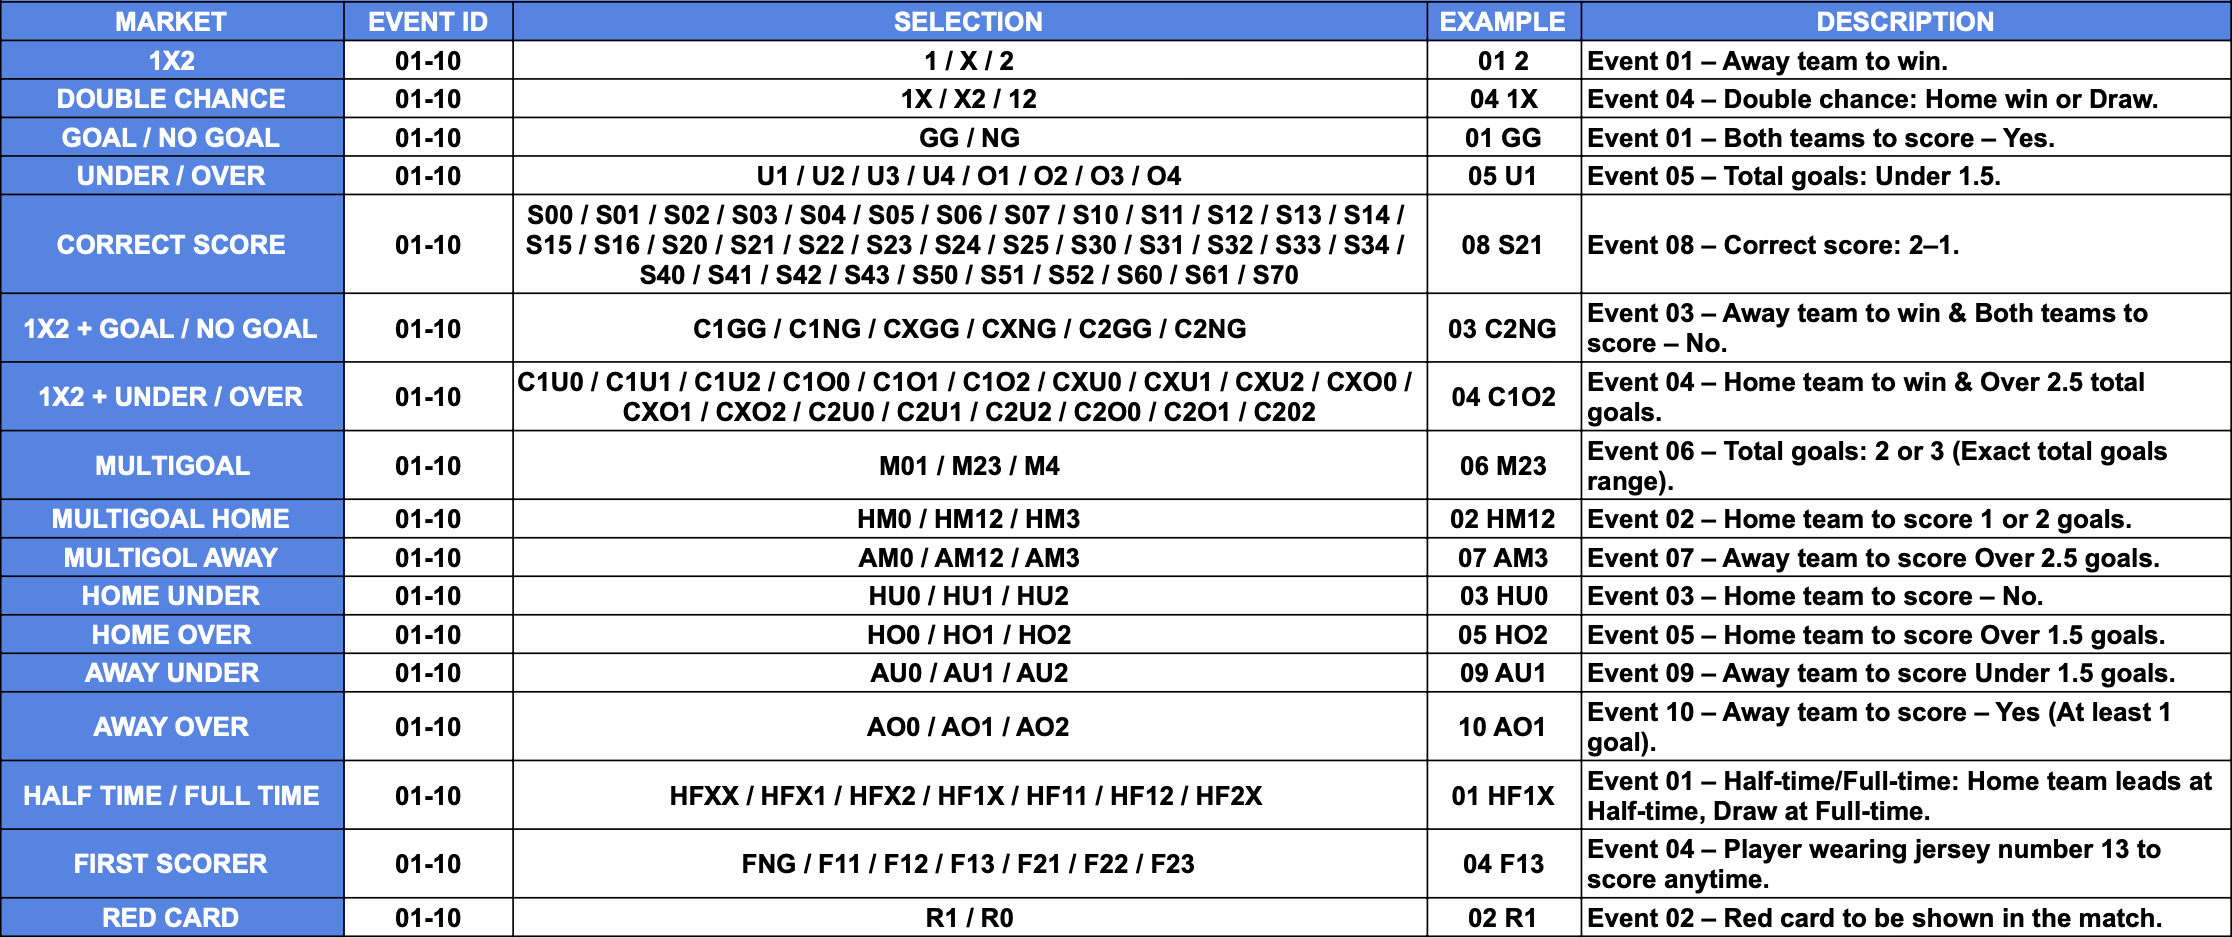
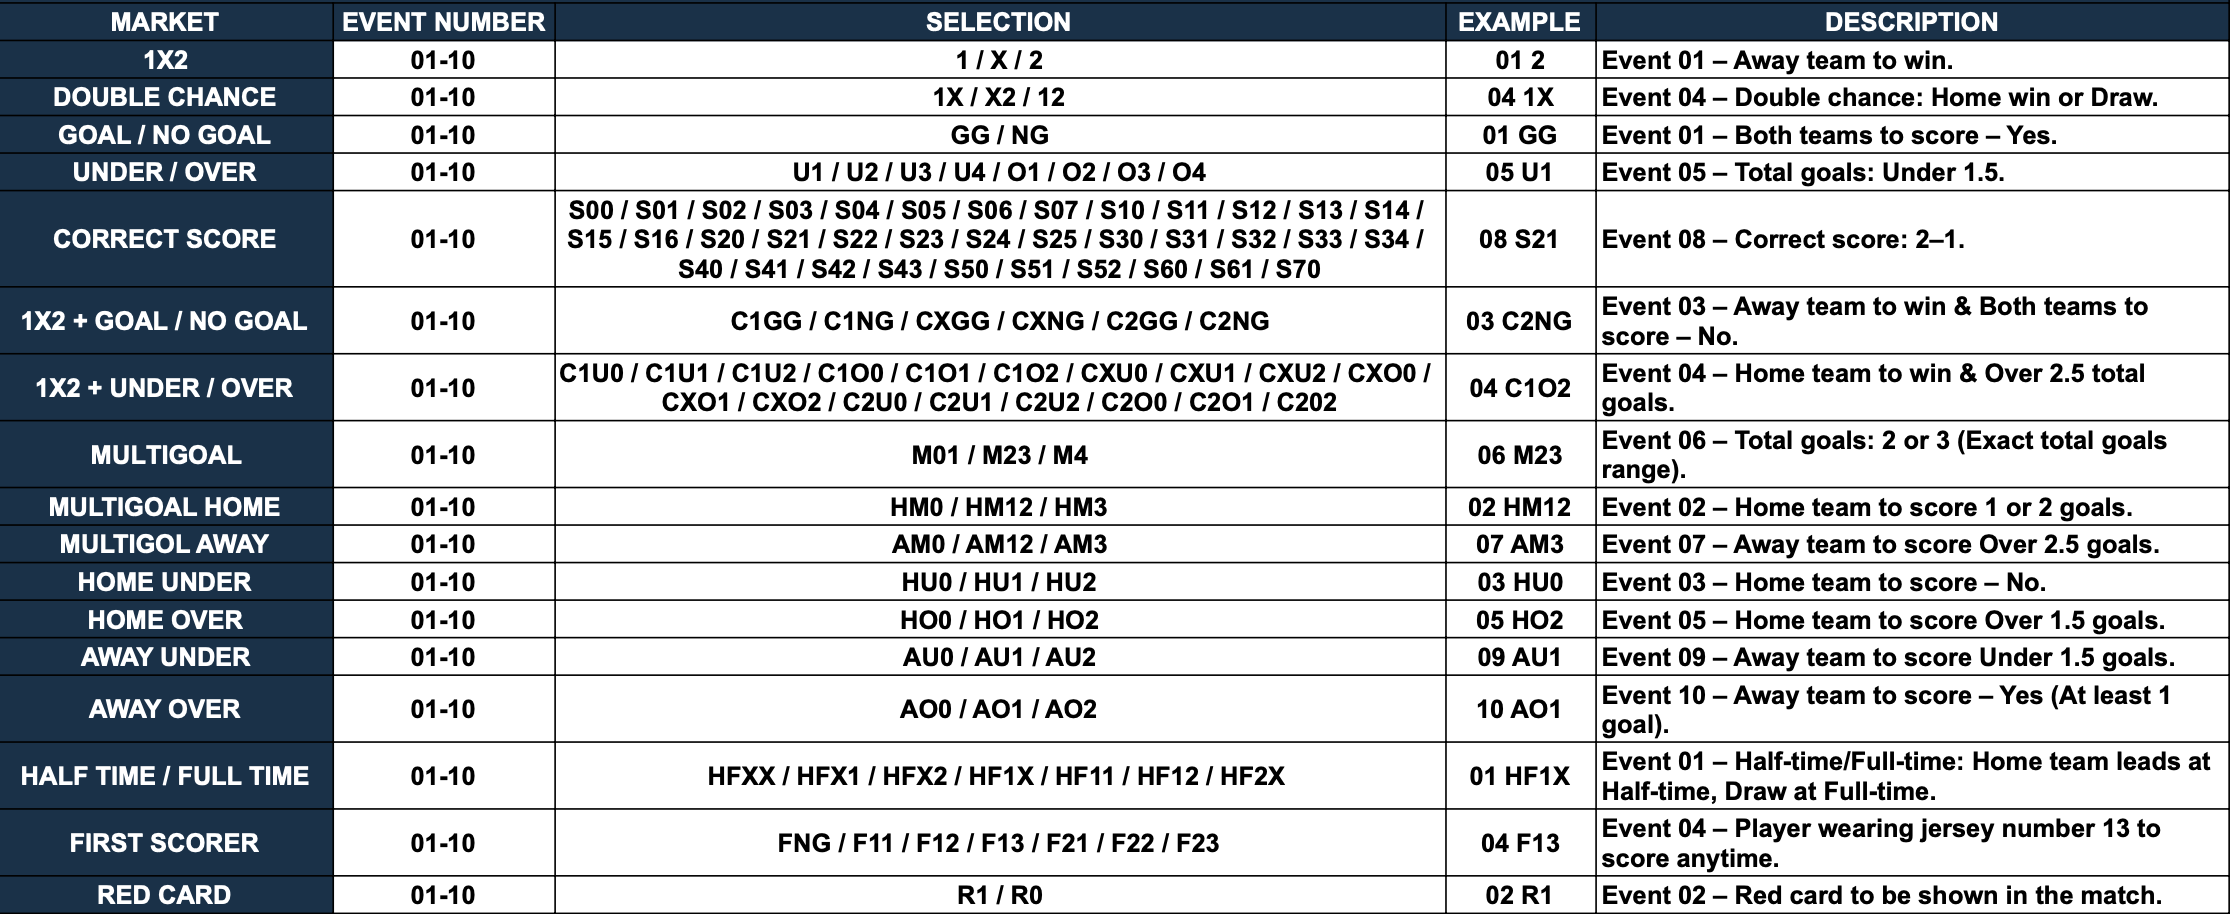
feat: add dialog for displaying racing codes with image in RacingFastBet component

diff --git a/src/retail-components/racing-fast-bet.tsx b/src/retail-components/racing-fast-bet.tsx
@@ -7,7 +7,11 @@ import {
 import { useContext, useState } from 'react'
 import { useTranslation } from 'react-i18next'
 import { toast } from 'sonner'
-import RacingCodeList from './racing-code-list'
+/* import RacingCodeList from './racing-code-list' */
+import { Dialog, DialogContent } from './ui/dialog'
+import { DialogTrigger } from '@/components/ui/dialog'
+import { Button } from './ui/button'
+import Image from 'next/image'
 
 export default function RacingFastBet({
   selectedEvent,
@@ -124,7 +128,7 @@ export default function RacingFastBet({
     setSelectionInput('')
   }
 
-  const handleCodeClick = (code: string) => {
+  /* const handleCodeClick = (code: string) => {
     setCodeInput(code)
     setSelectionInput('') // Clear selection when changing code
   }
@@ -153,7 +157,7 @@ export default function RacingFastBet({
 
     addBets(marketName, bets)
     toast.success(`${bets.length} ${t('bets_added')}`)
-  }
+  } */
 
   const submitOnEnter = (e: React.KeyboardEvent) => {
     if (e.key === 'Enter') {
@@ -167,11 +171,32 @@ export default function RacingFastBet({
         <span className="text-[16px] font-bold text-bet-foreground">
           {t('fastbet')}
         </span>
-        <RacingCodeList
+        {/* <RacingCodeList
           markets={markets}
           onCodeClick={handleCodeClick}
           onDirectBet={handleDirectBet}
-        />
+        /> */}
+        <Dialog>
+          <DialogTrigger asChild>
+            <Button className="w-32 bg-bet text-[16px] font-bold text-bet-foreground hover:bg-bet/70">
+              {t('code_list')}
+            </Button>
+          </DialogTrigger>
+          <DialogContent className="max-w-6xl">
+            <div className="flex flex-col items-center justify-center bg-accent pt-4">
+              <h2 className="h-10 text-[19px] font-bold text-accent-foreground">
+                {t('code_list')}
+              </h2>
+              <Image
+                src="/dogshorses-codes-image.png"
+                alt="Codici scommesse calcio"
+                width={1920}
+                height={1080}
+                className="h-auto max-w-full"
+              />
+            </div>
+          </DialogContent>
+        </Dialog>
       </div>
       <div className="flex flex-row items-center gap-1">
         <Input
